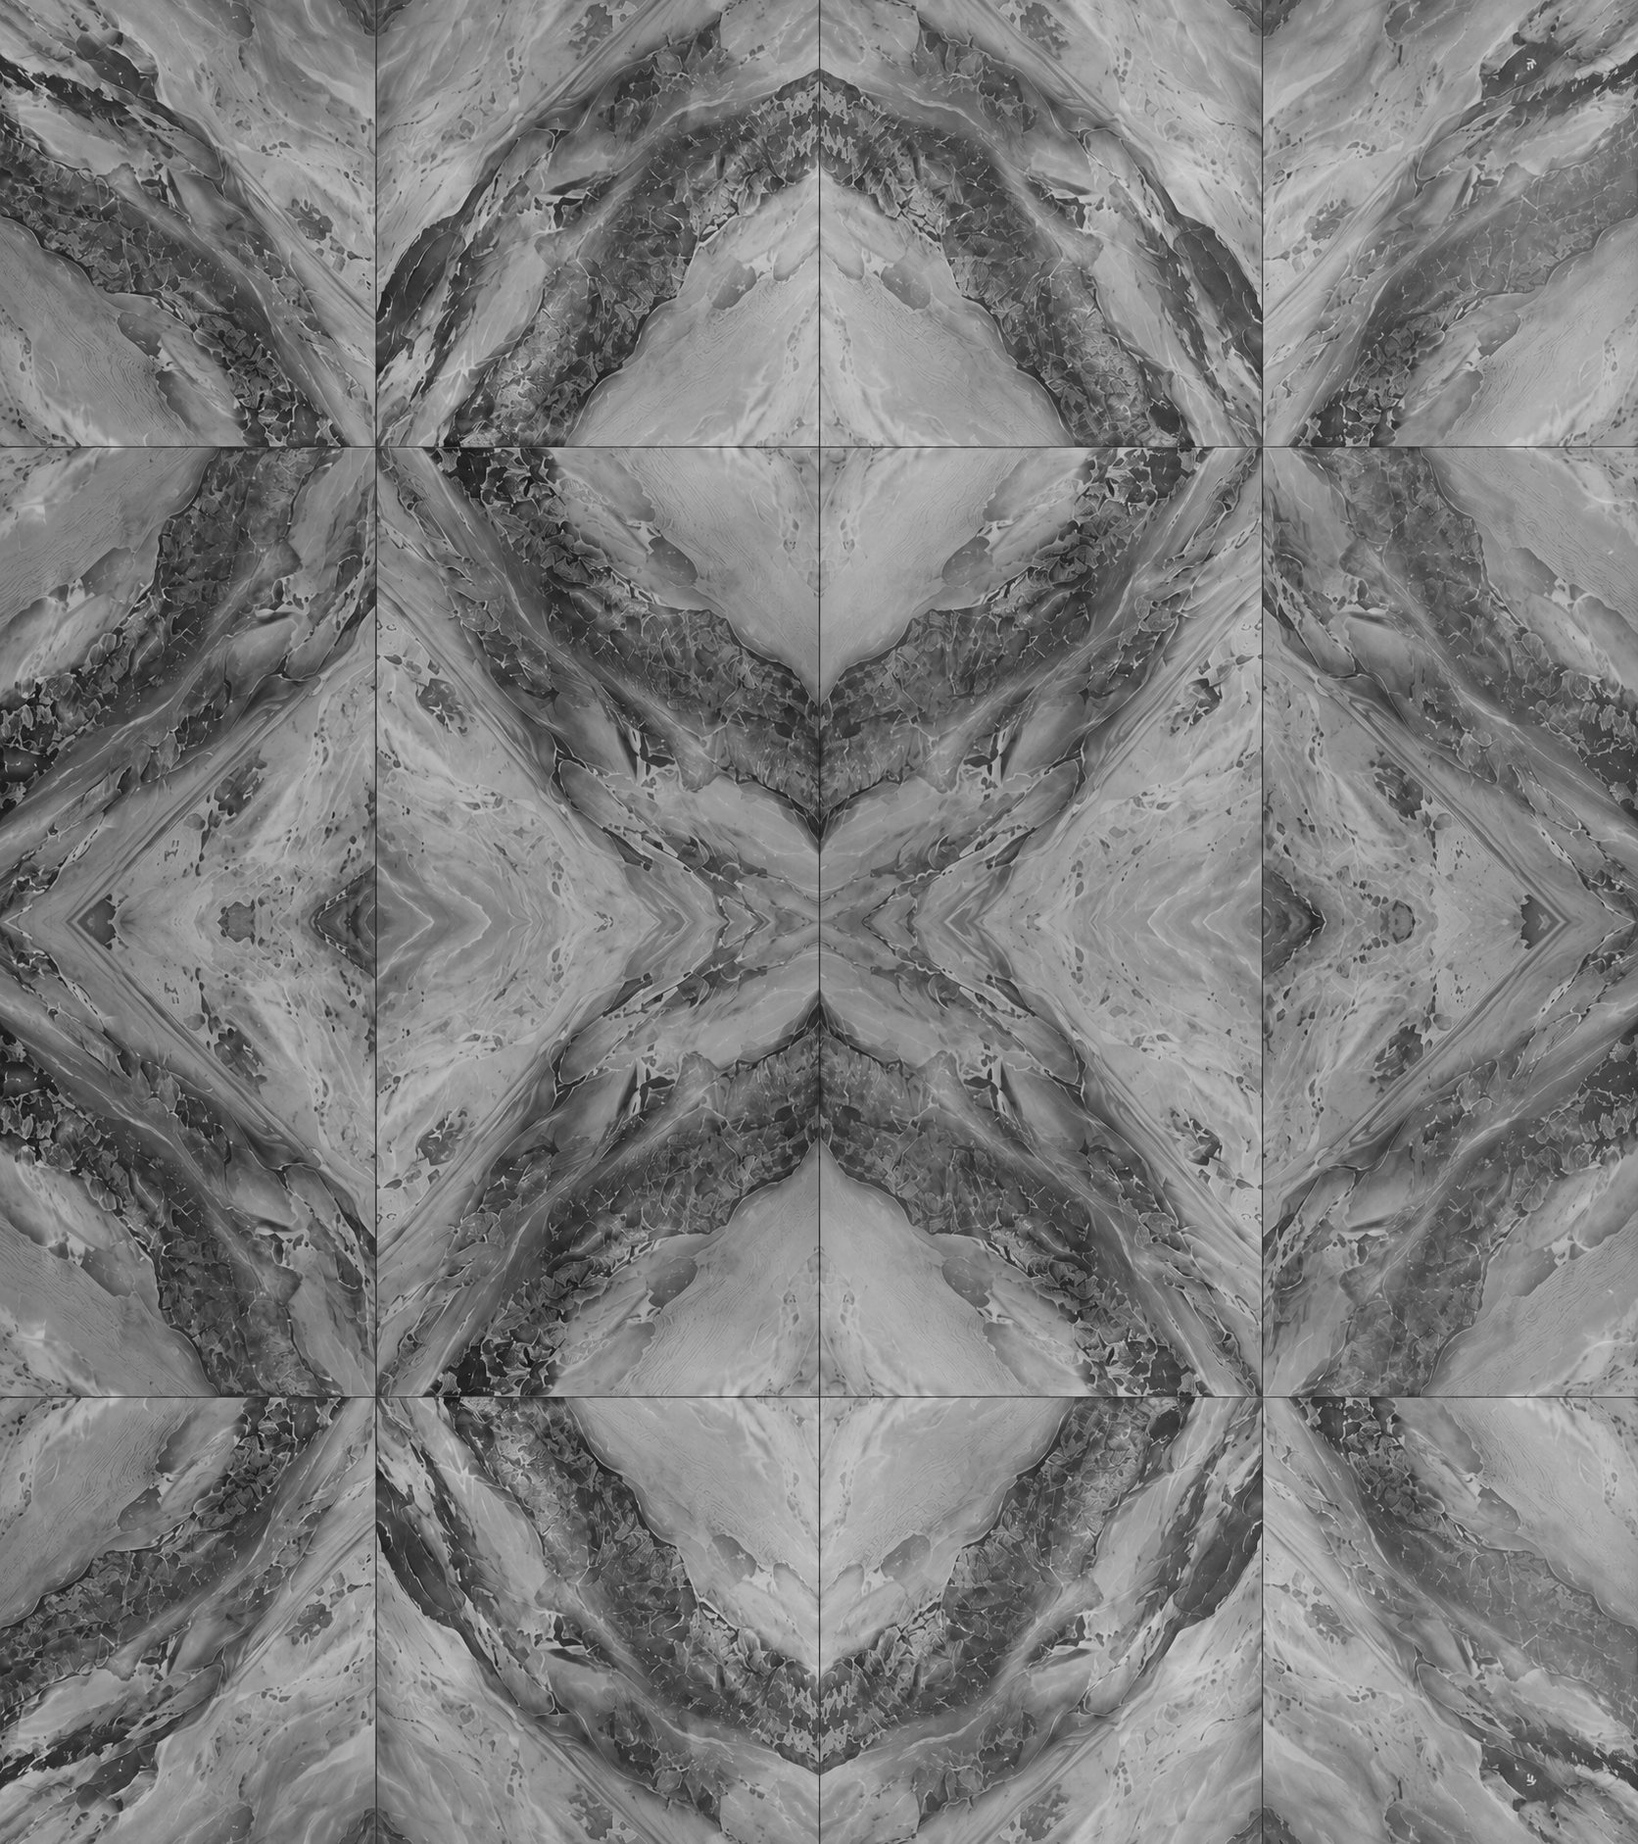
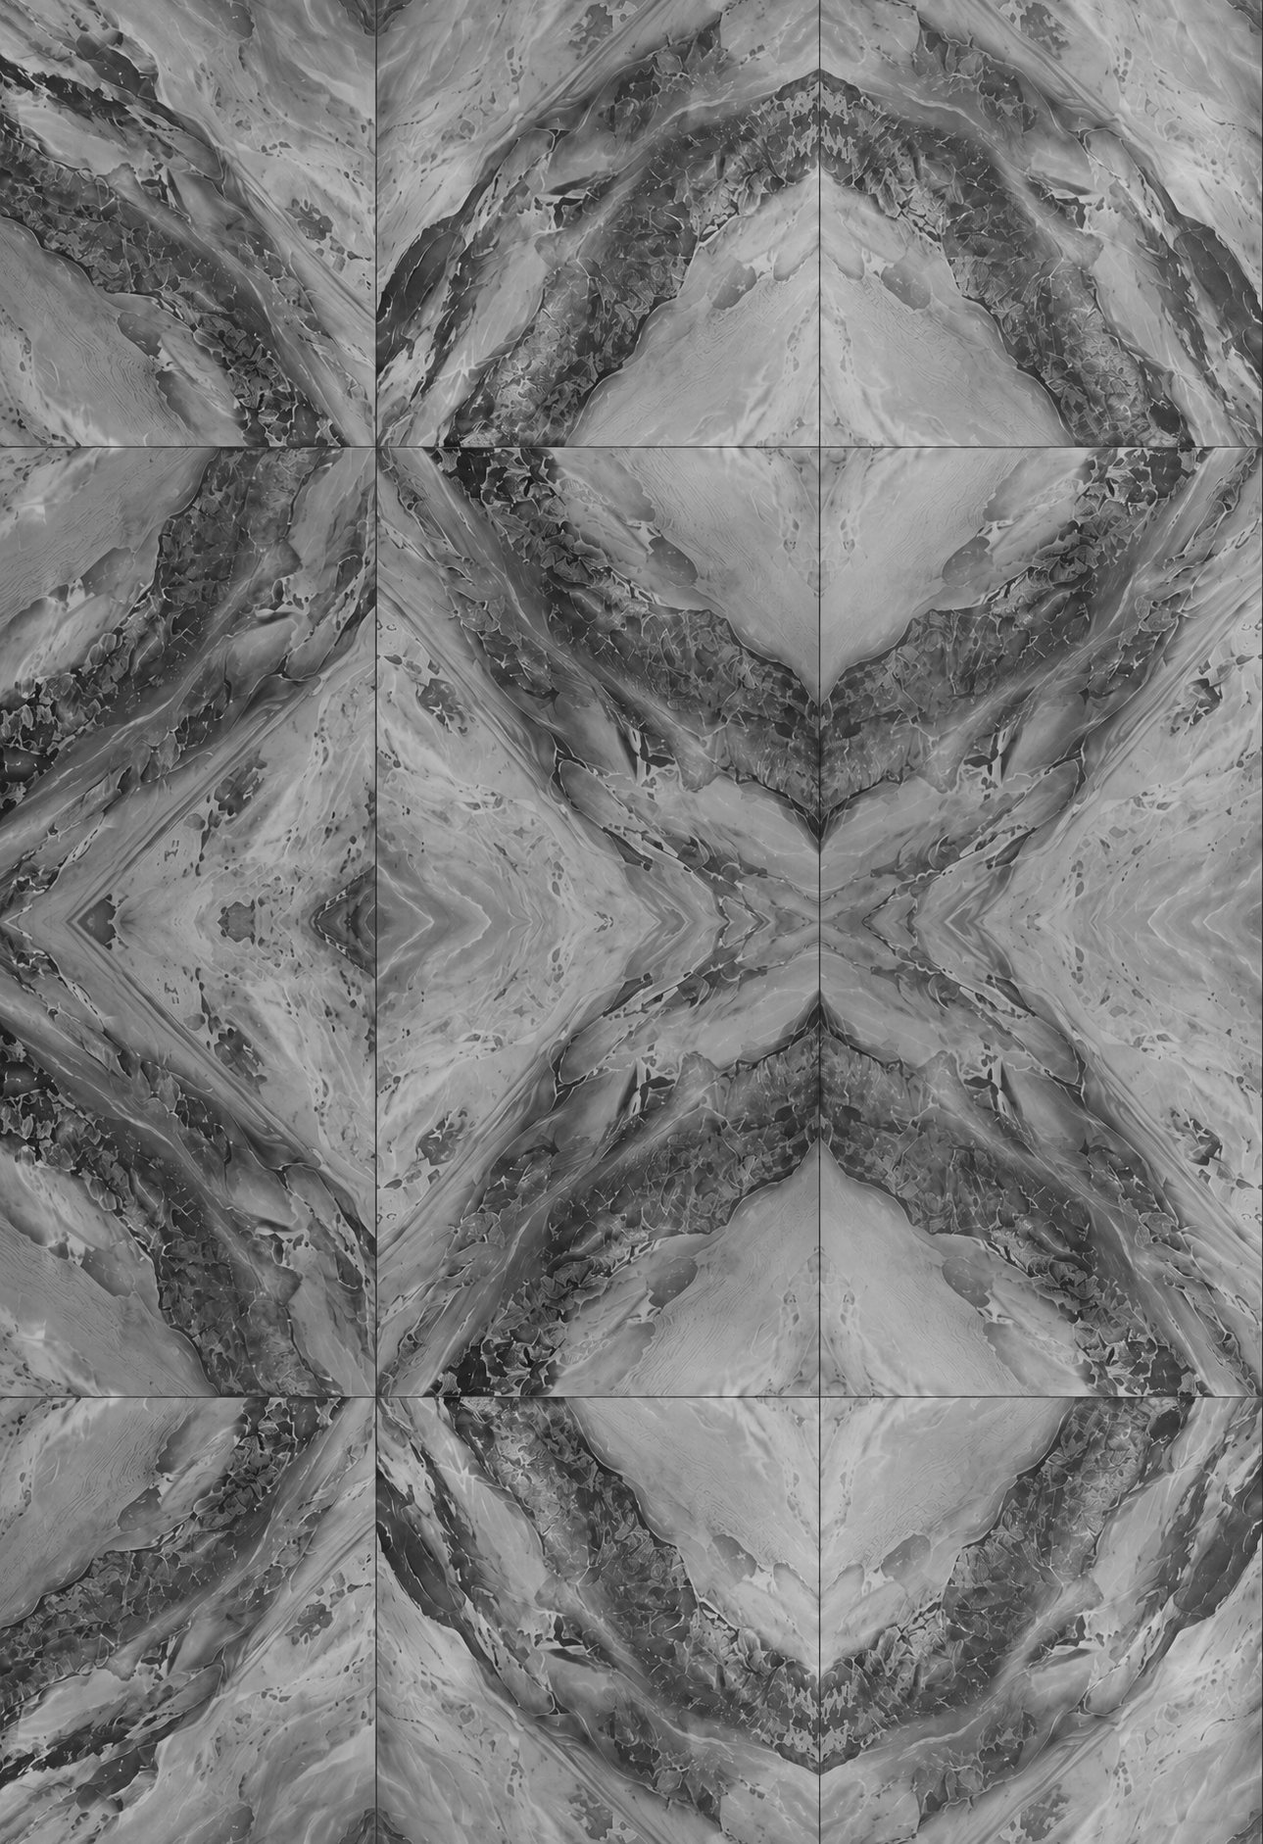
Spike E: one continuous movement — the camera never stops
The steps came from the path, not the clock: u(t) eased every segment
between keys, so the camera came to rest at each of eight keys. The
timeline now maps to the curves' arc length through a monotone cubic with
non-zero tangents at every key; measured speed along the path decelerates
68 → 6 into the stone and rises 6 → 32 out of it, never zero. Inside, the
curve bends rather than stops; the transformation begins while the camera
is still moving in; the shell settles while it glides out, its flanks
fading as they lose their area. The film is 7.2 s + 1 s held (−15 %), by
removing the pauses, not by moving faster. The wall sheet is the
reference's first three whole slabs so its mirror repeat folds on a seam.
A push that never reverses (the wall at −9, the shell receding) was tried
and dropped: the receding hollow shell read as a texture card flying.

diff --git a/spikes/mineral/scene/PassageScene.tsx b/spikes/mineral/scene/PassageScene.tsx
@@ -54,9 +54,9 @@ const FOV = 30;
 export const CAM_Z = WORLD_H / 2 / Math.tan((FOV / 2) * (Math.PI / 180));
 const STONE_Z = 1.5;
 const WALL_Z = -0.05;
-/** the wall sheet (1672 × 1882, four slabs across) laid 12 world units wide: a slab is 3.24 units, the final view holds 2.65 */
-const SHEET_W = 12;
-const SHEET_H = SHEET_W * (1882 / 1672);
+/** the wall sheet (1289 × 1882, three whole slabs, mirror-repeated on a seam) laid 9.25 world units wide: a slab is 3.24 units, the final view holds 2.65 */
+const SHEET_W = 9.25;
+const SHEET_H = SHEET_W * (1882 / 1289);
 
 const clamp = (v: number, a: number, b: number) => Math.min(b, Math.max(a, v));
 const smooth = (t: number) => { const s = clamp(t, 0, 1); return s * s * (3 - 2 * s); };
@@ -69,16 +69,51 @@ export interface PassageProps {
 }
 
 /** the camera's path: positions and targets at the timeline's keys */
+/** a monotone cubic through (x, y) keys — Fritsch–Carlson; interior tangents never zero, so nothing stops */
+function monotone(keys: readonly (readonly [number, number])[], flatEnds = true) {
+  const n = keys.length;
+  const xs = keys.map((k) => k[0]), ys = keys.map((k) => k[1]);
+  const d = Array.from({ length: n - 1 }, (_, i) => (ys[i + 1]! - ys[i]!) / (xs[i + 1]! - xs[i]!));
+  const m = new Array<number>(n).fill(0);
+  for (let i = 1; i < n - 1; i++) m[i] = d[i - 1]! * d[i]! <= 0 ? 0 : (d[i - 1]! + d[i]!) / 2;
+  m[0] = flatEnds ? 0 : d[0]!; m[n - 1] = flatEnds ? 0 : d[n - 2]!;
+  for (let i = 0; i < n - 1; i++) {
+    if (d[i] === 0) { m[i] = 0; m[i + 1] = 0; continue; }
+    const a = m[i]! / d[i]!, b = m[i + 1]! / d[i]!;
+    const h = a * a + b * b;
+    if (h > 9) { const tt = 3 / Math.sqrt(h); m[i] = tt * a * d[i]!; m[i + 1] = tt * b * d[i]!; }
+  }
+  return (x: number) => {
+    if (x <= xs[0]!) return ys[0]!;
+    if (x >= xs[n - 1]!) return ys[n - 1]!;
+    let i = 0;
+    while (x > xs[i + 1]!) i++;
+    const h = xs[i + 1]! - xs[i]!, u = (x - xs[i]!) / h;
+    const u2 = u * u, u3 = u2 * u;
+    return (2 * u3 - 3 * u2 + 1) * ys[i]! + (u3 - 2 * u2 + u) * h * m[i]! + (-2 * u3 + 3 * u2) * ys[i + 1]! + (u3 - u2) * h * m[i + 1]!;
+  };
+}
+
+/**
+ * The camera's path: one continuous movement. From the sitting's camera it
+ * pushes toward the stone, through its face and down its length; inside it
+ * curves — never stopping — and glides back out the way it came while the
+ * crystal around it becomes the wall, so what it comes out into is the wall.
+ * Position and target are Catmull-Rom curves; the timeline maps to ARC
+ * LENGTH through a monotone cubic with non-zero tangents at every key, so
+ * the speed is continuous everywhere: no stops, no stages.
+ */
 function useCameraPath(stoneX: number, stoneY: number) {
   return useMemo(() => {
-    const keys = [0, 0.14, 0.34, 0.46, 0.56, 0.7, 0.86, 1];
+    // (t, arc-length fraction) — where along the path each moment of the timeline is
+    const posKeysT = [0, 0.14, 0.34, 0.46, 0.58, 0.72, 0.86, 1];
     const pos = new CatmullRomCurve3([
       new Vector3(0, 0, CAM_Z),
       new Vector3(stoneX - 0.7, stoneY - 0.5, 9.5),
       new Vector3(stoneX - 0.25, stoneY + 1.3, 3.4),
       new Vector3(stoneX - 0.02, stoneY + 1.9, STONE_Z + 0.62),
       new Vector3(stoneX + 0.05, stoneY + 1.35, STONE_Z + 0.05),
-      new Vector3(stoneX + 0.1, stoneY + 0.5, STONE_Z + 1.5),
+      new Vector3(stoneX + 0.1, stoneY + 0.55, STONE_Z + 1.5),
       new Vector3(0.1, 0.05, 5.6),
       new Vector3(0.55, 0.15, 10.05),
     ], false, 'centripetal', 0.35);
@@ -92,15 +127,19 @@ function useCameraPath(stoneX: number, stoneY: number) {
       new Vector3(0.25, 0.1, 0),
       new Vector3(0.55, 0.15, 0),
     ], false, 'centripetal', 0.35);
-    // the timeline's keys map to the curves' uniform parameter
-    const u = (t: number) => {
-      for (let i = 0; i < keys.length - 1; i++) {
-        const a = keys[i]!, b = keys[i + 1]!;
-        if (t <= b) return (i + smooth((t - a) / (b - a))) / (keys.length - 1);
-      }
-      return 1;
+    // the arc-length fraction of each key on each curve
+    const fractions = (c: CatmullRomCurve3) => {
+      const lengths = c.getLengths(400);
+      const total = lengths[lengths.length - 1]!;
+      const n = c.points.length;
+      // the length up to each control point: sample the curve param at i/(n−1)
+      return Array.from({ length: n }, (_, i) => { const u = i / (n - 1); const k = Math.round(u * 400); return lengths[k]! / total; });
     };
-    return { pos, target, u };
+    const posMap = monotone(posKeysT.map((tk, i) => [tk, fractions(pos)[i]!] as const), false);
+    const targetMap = monotone(posKeysT.map((tk, i) => [tk, fractions(target)[i]!] as const), false);
+    const u = (t: number) => clamp(posMap(t), 0, 1);
+    const uTarget = (t: number) => clamp(targetMap(t), 0, 1);
+    return { pos, target, u, uTarget };
   }, [stoneX, stoneY]);
 }
 
@@ -155,7 +194,7 @@ function Passage({ t, onReady, photo }: PassageProps & { photo: Texture }) {
       uPhoto: { value: maps.interior }, uRidge: { value: ridge }, uMarble: { value: marble.sheet }, uLuma: { value: marble.luma },
       uBox: { value: new Vector2(stoneX, stoneY) }, uBoxHalf: { value: new Vector2(stoneW / 2, stoneH / 2) },
       // the sheet is placed so its graphite band passes through the stone and the pale slab sits left of the view's centre
-      uSheet: { value: new Vector2(-2.97, -3.33) }, uSheetSize: { value: new Vector2(SHEET_W, SHEET_H) },
+      uSheet: { value: new Vector2(-3.9, -3.33) }, uSheetSize: { value: new Vector2(SHEET_W, SHEET_H) },
       uBecome: { value: 0 }, uSpread: { value: 0 }, uFogDensity: { value: 0 }, uFogColor: { value: new Color('#5a524b') },
       uKey: { value: new Vector3(-0.5, 0.55, 0.75) }, uInside: { value: inside }, uFlatten: { value: flatten }, uWallZ: { value: WALL_Z + 0.01 * (1 - inside) + 0.012 * inside }, uOpacity: { value: 1 },
     });
@@ -213,9 +252,8 @@ function Passage({ t, onReady, photo }: PassageProps & { photo: Texture }) {
     wall.visible = roomGone < 1; portrait.visible = roomGone < 1;
 
     // the camera on its path
-    const u = path.u(tt);
-    path.pos.getPoint(u, tmpPos);
-    path.target.getPoint(u, tmpTarget);
+    path.pos.getPointAt(path.u(tt), tmpPos);
+    path.target.getPointAt(path.uTarget(tt), tmpTarget);
     camera.position.copy(tmpPos);
     camera.lookAt(tmpTarget);
 
@@ -258,7 +296,7 @@ function Passage({ t, onReady, photo }: PassageProps & { photo: Texture }) {
     // the shell settles into the wall's plane, a faint relief kept
     const become = seg(tt, 0.54, 0.82);
     const spread = 9 * seg(tt, 0.66, 0.92);
-    const flatten = 0.94 * seg(tt, 0.68, 0.88);
+    const flatten = 0.94 * seg(tt, 0.66, 0.9);
     for (const m of [becoming.shell, becoming.wallMat]) {
       m.uniforms['uBecome']!.value = become;
       m.uniforms['uSpread']!.value = spread;

diff --git a/spikes/mineral/passageController.ts b/spikes/mineral/passageController.ts
@@ -64,15 +64,15 @@ const ALIGN_PX = 6;
 /**
  * The film's rhythm, as briefed: recognition (the mineral, a slow dolly) ·
  * immersion (into the material) · geological transformation · reveal, then a
- * held frame. 8.5 s of motion + 1 s hold. t is the scene's timeline.
+ * held frame. 7.2 s of motion + 1 s hold — one breath. t is the scene's timeline.
  */
 export const CINEMATIC_RHYTHM = {
   keys: [
     [0, 0],        // A · at rest
-    [2.5, 0.44],   // recognition: the dolly, the facets fill the view (2.5 s)
-    [4.0, 0.62],   // immersion: through the face, inside, among the planes (1.5 s — not a stay)
-    [7.0, 0.9],    // transformation: the structure becomes mineral, then slab; the shell settles (3 s)
-    [8.5, 1],      // reveal: the wall (1.5 s)
+    [2.1, 0.44],   // recognition: the push, the facets fill the view
+    [3.3, 0.62],   // immersion: through the face, down the crystal — the push does not stop
+    [5.9, 0.9],    // transformation: the structure becomes mineral, then slab; the shell recedes into the wall
+    [7.2, 1],      // reveal: the wall, the push settling
   ],
   hold: 1,
 } as const;

diff --git a/CLAUDE.md b/CLAUDE.md
@@ -17,7 +17,7 @@ editorial system, the full state as one unit, pinned page scroll as the primary
 driver at 85 vh per state with snap, secondary controls, no scroll interception,
 and the current visual direction are **locked** (`docs/spikes/B-services.md`,
 reference implementation `spikes/radial/`). Do not redesign Services.
-Spike C (cases) — DIRECTION APPROVED: THE ARCHIVE ON A RAIL (`spikes/gallery/`): curved case sheets hung on a helical rail, scroll walks the rail, a chosen sheet flies forward and unrolls into an editorial case. Pass 7b (spiral geometry: a tight ring of 8 cases making one full turn — r 3.6, 44°, longer lens from slightly above, back faces as slates, clamped recession) 7c (the opened case as an isolated scene: archive fades to 3 % while open, «×» close at the sheet's corner, return to the same scroll position) and 7d (04.1 as the frontal anchor — the drift is a ±1.7° breath, not a rotation; the rail starts at 04.1) are built and awaiting the closing review. Do not return to portals or other concepts. Earlier passes kept: `spikes/portal/` (passage, closed), `spikes/cases/` (CSS archive, `none`-tier fallback). See `docs/spikes/C-cases.md`. Spike D (specialists) — PINNED PORTRAIT GALLERY, one direction as briefed: pass 13 «Сеанс» (`spikes/portraits/`: one portrait at the scale of a person, the name on a fixed 30 % datum, the focal line at rest, and THE SMOKY QUARTZ (`src/assets/smoky-quartz.png` as the surface of a body with its own traced silhouette) RESIDENT on the wall/frame boundary, quiet and smoky, the sentence crossing in front of it, fragments of the same stone at the viewport edges; the portrait change comes OUT of the stone as a front with a wake; words arrive by f ≈ 0.28; section DOM + CSS with one section-wide canvas, page scroll + pin + snap; published only via `scripts/artifact-copy.mjs`) is built; pass 15 adds the exit — A NATURAL MINERAL BECOMES THE ARCHITECTURE OF ERA: 100 vh after the last state the quartz stays and stops being an object (glass goes, the same body polishes to graphite), its interior expands into the wall as graphite and pale veins (its photograph reflected at its silhouette, its facet ridges baked as veins), and the wall reference `docs/references/wallpapers.png` — cut at native scale, never stretched, lit with its own relief — arrives from the stone and the edge as slabs the founder's opening stands on; pass 14's photograph-under-the-stone cross-fade was failed as a texture swap — awaiting review — `docs/spikes/D-specialists.md`. Spike E (the passage, `spikes/mineral/`, standalone): the camera enters the quartz, inside the crystal's own far shell becomes the marble (one `becoming` shader on shell and wall, the reference at native scale in world units) and the camera steps back into the wall of the clinic — storyboard + spike built; the passage is played by ONE intentional gesture (assisted scroll: `spikes/mineral/passageController.ts` — idle → armed → playing → completed → released, the film's own rhythm: recognition 2.5 s · immersion 1.5 s · transformation 3 s · reveal 1.5 s · hold 1 s, a monotone cubic clock→t, the page held meanwhile, released after; scroll up at the end returns in 4 s) — awaiting review before integration — `docs/spikes/E-passage.md`. The greyscale horizontal pin stays the `none`-tier fallback. See
+Spike C (cases) — DIRECTION APPROVED: THE ARCHIVE ON A RAIL (`spikes/gallery/`): curved case sheets hung on a helical rail, scroll walks the rail, a chosen sheet flies forward and unrolls into an editorial case. Pass 7b (spiral geometry: a tight ring of 8 cases making one full turn — r 3.6, 44°, longer lens from slightly above, back faces as slates, clamped recession) 7c (the opened case as an isolated scene: archive fades to 3 % while open, «×» close at the sheet's corner, return to the same scroll position) and 7d (04.1 as the frontal anchor — the drift is a ±1.7° breath, not a rotation; the rail starts at 04.1) are built and awaiting the closing review. Do not return to portals or other concepts. Earlier passes kept: `spikes/portal/` (passage, closed), `spikes/cases/` (CSS archive, `none`-tier fallback). See `docs/spikes/C-cases.md`. Spike D (specialists) — PINNED PORTRAIT GALLERY, one direction as briefed: pass 13 «Сеанс» (`spikes/portraits/`: one portrait at the scale of a person, the name on a fixed 30 % datum, the focal line at rest, and THE SMOKY QUARTZ (`src/assets/smoky-quartz.png` as the surface of a body with its own traced silhouette) RESIDENT on the wall/frame boundary, quiet and smoky, the sentence crossing in front of it, fragments of the same stone at the viewport edges; the portrait change comes OUT of the stone as a front with a wake; words arrive by f ≈ 0.28; section DOM + CSS with one section-wide canvas, page scroll + pin + snap; published only via `scripts/artifact-copy.mjs`) is built; pass 15 adds the exit — A NATURAL MINERAL BECOMES THE ARCHITECTURE OF ERA: 100 vh after the last state the quartz stays and stops being an object (glass goes, the same body polishes to graphite), its interior expands into the wall as graphite and pale veins (its photograph reflected at its silhouette, its facet ridges baked as veins), and the wall reference `docs/references/wallpapers.png` — cut at native scale, never stretched, lit with its own relief — arrives from the stone and the edge as slabs the founder's opening stands on; pass 14's photograph-under-the-stone cross-fade was failed as a texture swap — awaiting review — `docs/spikes/D-specialists.md`. Spike E (the passage, `spikes/mineral/`, standalone): the camera enters the quartz, inside the crystal's own far shell becomes the marble (one `becoming` shader on shell and wall, the reference at native scale in world units) and the camera steps back into the wall of the clinic — storyboard + spike built; the passage is played by ONE intentional gesture (assisted scroll: `spikes/mineral/passageController.ts` — idle → armed → playing → completed → released, the film's own rhythm: recognition 2.1 s · immersion 1.2 s · transformation 2.6 s · reveal 1.3 s · hold 1 s = 8.2 s, a monotone cubic clock→t AND arc-length pacing of the camera with no stops, the page held meanwhile, released after; scroll up at the end returns in 4 s) — awaiting review before integration — `docs/spikes/E-passage.md`. The greyscale horizontal pin stays the `none`-tier fallback. See
 `docs/spikes/B-services.md`.** The concept phase is closed. Do
 not propose alternative art directions, reorder sections, change the colour
 system or typography philosophy, or remove the glass metaphor. The greyscale

diff --git a/docs/spikes/E-passage.md b/docs/spikes/E-passage.md
@@ -144,3 +144,39 @@ Keys now (0, 0) · (2.5, 0.44) · (4, 0.62) · (7, 0.9) · (8.5, 1), hold 1 s:
 recognition unchanged, immersion 1.5 s (was 2.5), transformation and reveal
 the same lengths, the film 8.5 s + 1 s held. Measured: 2.6 s → 0.44 ·
 4.1 s → 0.62 · 7.1 s → 0.90 · 8.5 s → 1.00 · released 9.6 s.
+
+## One continuous movement (15.09.2026)
+
+**Brief.** The movement read as separate camera steps (zoom → pause → zoom
+→ transform). One uninterrupted dolly, one easing curve, no keyframe stops,
+no sudden scale changes, no blur; ~15–20 % faster by removing pauses, not
+by moving the camera faster; the transformation begins while the camera
+still moves.
+
+**Cause.** `useCameraPath`'s `u(t)` eased each segment between keys with
+`smooth()` — the camera came to a full stop at every key (speed 0 eight
+times). The clock→t cubic was continuous, so the stops were the path's.
+
+**Built.** The timeline now maps to the curves' **arc length** through a
+monotone cubic (Fritsch–Carlson) with non-zero tangents at every key
+(`monotone(keys, flatEnds = false)`), `getPointAt` on position and target;
+speed along the path measured (world units per unit t): 68 → 36 (0.2) → 10
+(0.4) → 6 (0.5, deepest inside) → 15 (0.7) → 32 (0.9) — one deceleration
+in, one acceleration out, minimum 5.9, never zero. Inside, the curve turns
+without stopping (K4 → K5 differ in y, so the reversal in z is a bend, not a
+cusp). Rhythm keys: (0, 0) · (2.1, 0.44) · (3.3, 0.62) · (5.9, 0.9) ·
+(7.2, 1), hold 1 s — 7.2 s of motion (was 8.5, −15 %), released at 8.3 s.
+Flatten 0.66 → 0.9 so the shell settles while the camera is still gliding
+out; the shell's flanks fade as it settles (`alpha × facing`), since they
+end with no area. The wall sheet is now the reference's first three whole
+slabs (to the seam at x 1289) so its mirror repeat folds on a seam; laid
+9.25 units wide, centre (−3.9, −3.33).
+
+**Tried and dropped.** A push that never reverses (the wall at z −9, the
+shell receding to it): from inside, the receding hollow shell's flanks
+stretch into curtains and its patch floats in front of the wall — a
+texture card flying. The in-and-out path with continuous speed reads as one
+movement; the recession did not.
+
+**Measured.** 2.1 s → 0.42 · 3.5 s → 0.64 · 6.0 s → 0.90 · 7.2 s → 1.00 ·
+released 8.3 s; scrub 16.7 ms median, 0 % over 33 ms.
